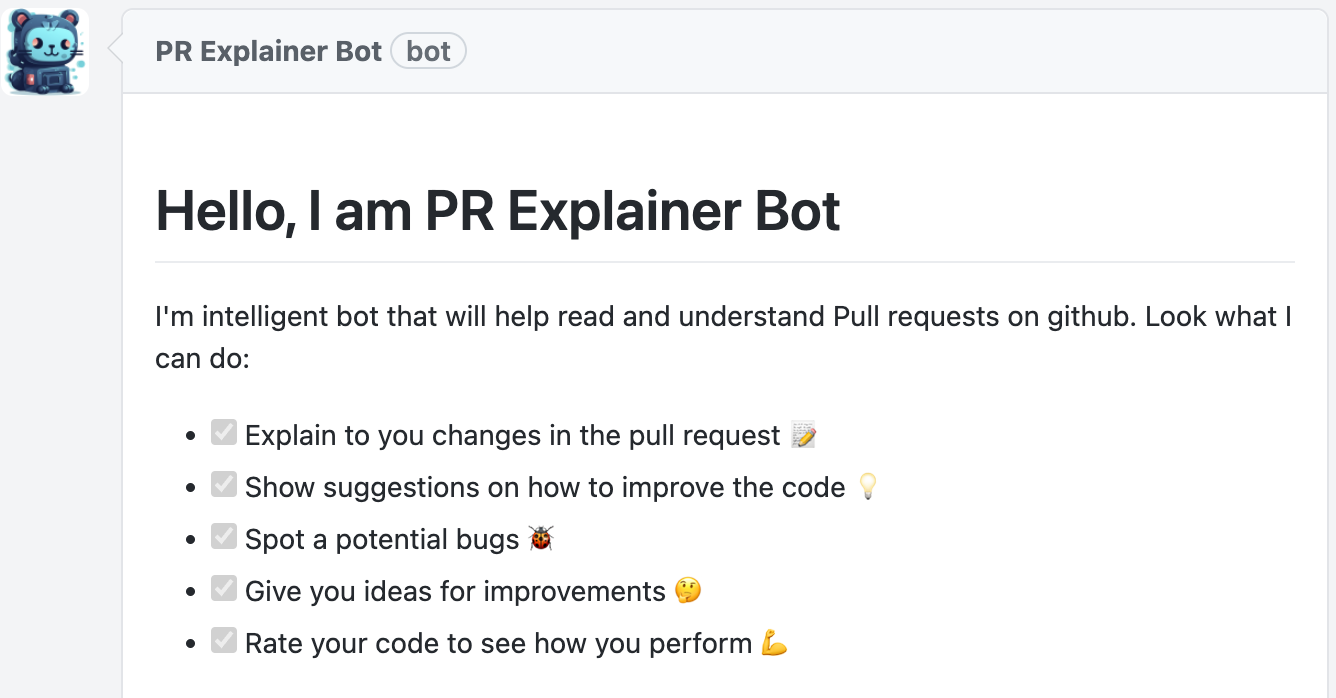
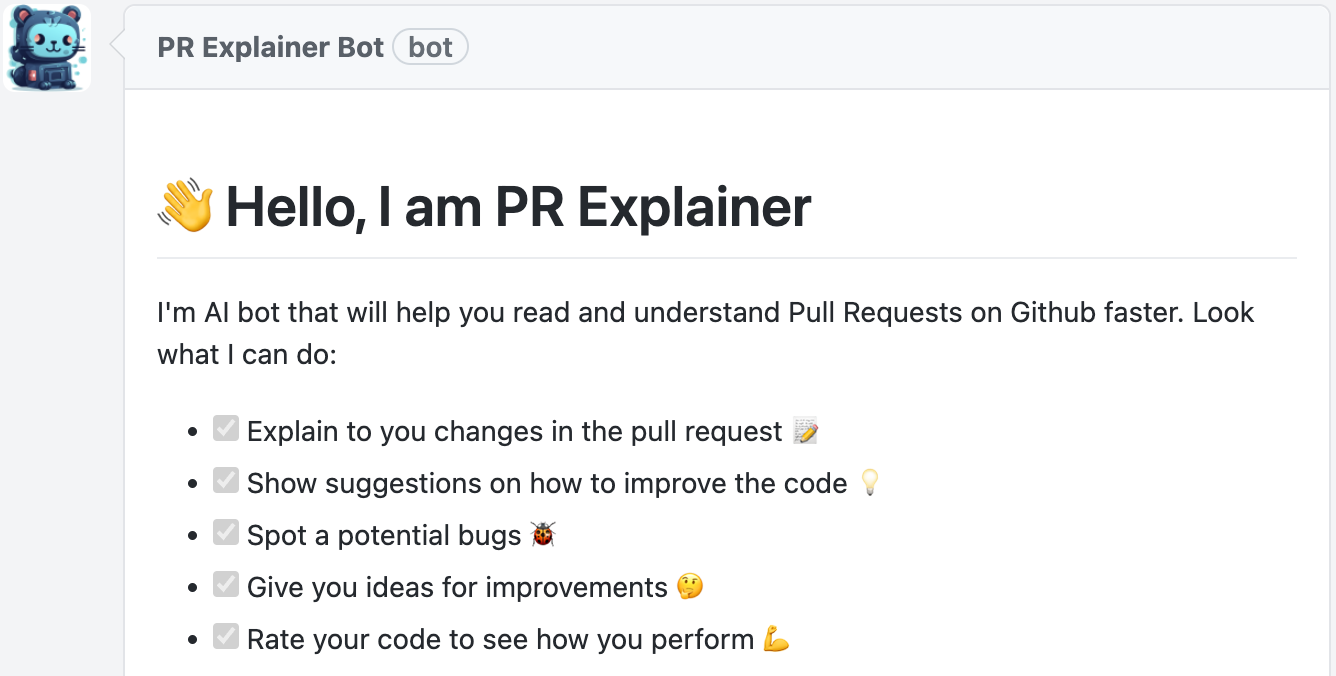
Changed some texts, added live example

diff --git a/public/index.html b/public/index.html
@@ -132,7 +132,41 @@
                 document.getElementById('readme').innerHTML = marked.parse(text);
               })
             </script>
+          </article>
+        </div>
+      </article>
 
+      <article class="timeline-comment">
+        <a class="avatar" href="https://github.com/apps/pr-explainer-bot" tabindex="-1">
+          <img alt="@pr-explainer-bot" height="44" width="44"
+            src="https://avatars.githubusercontent.com/in/323714?s=80&v=4" />
+        </a>
+        <div class="comment">
+          <header class="comment-header">
+            <span class="comment-meta">
+              <a class="text-link" href="https://github.com/utterance">
+                <strong>PR Explainer Bot</strong>
+              </a>
+              <span
+                class="text-sm font-semibold px-[7px] border border-[#d0d7de] rounded-full text-[#656d76]">bot</span>
+            </span>
+          </header>
+          <article class="markdown-body" md>
+            <div id="screenshots">
+              <div role="status" class="space-y-2.5 animate-pulse max-w-lg">
+                <div class="flex items-center w-full space-x-2">
+                  <div class="h-2.5 bg-gray-200 rounded-full dark:bg-gray-700 w-32"></div>
+                  <div class="h-2.5 bg-gray-300 rounded-full dark:bg-gray-600 w-24"></div>
+                  <div class="h-2.5 bg-gray-300 rounded-full dark:bg-gray-600 w-full"></div>
+                </div>
+                <span class="sr-only">Loading...</span>
+              </div>
+            </div>
+            <script>
+              fetch('./Screenshots.md').then(res => res.text()).then(text => {
+              document.getElementById('screenshots').innerHTML = marked.parse(text);
+              })
+            </script>
           </article>
         </div>
       </article>

diff --git a/public/Instructions.md b/public/Instructions.md
@@ -1,5 +1,5 @@
-# Hello, I am PR Explainer Bot 
-I'm intelligent bot that will help read and understand Pull requests on github.
+# 👋 Hello, I am PR Explainer 
+I'm AI bot that will help you read and understand Pull Requests on Github faster. 
 Look what I can do:
 - [x] Explain to you changes in the pull request 📝
 - [x] Show suggestions on how to improve the code 💡
@@ -7,25 +7,19 @@ Look what I can do:
 - [x] Give you ideas for improvements 🤔
 - [x] Rate your code to see how you perform 💪
 
-## How to use me?
-1. Add me to your repository as a collaborator
-2. Create a pull request
-3. Wait for me to comment on your pull request
-4. Read my comments and improve your code
+## How to use?
+1. Add Github App to your personal account or organization
+2. Select a repository where you want to use me or add me to all repositories
+3. Create a pull request
+4. Wait for me to comment on your pull request
+5. Read my comments and improve your code
+
+## Live Examples
+
+— [github.com/PR-explainer-bot/web-site/pull/3](https://github.com/PR-explainer-bot/web-site/pull/3#issuecomment-1546742315)
 
 ## How to install me?
 
 You can install me from Github App directory
 
 * [https://github.com/apps/pr-explainer-bot](https://github.com/apps/pr-explainer-bot)
-
-## Screenshots
-
-![example](/images/example4.png)
-<p style="text-align: center;">Glance on a summary — build mental model faster 🧠</p>
-
-![example](/images/example5.png)
-<p style="text-align: center;">Get smart suggestions — save time on code review 🕑</p>
-
-![example](/images/example6.png)
-<p style="text-align: center;">See how well you perform 💪</p>

diff --git a/public/Screenshots.md b/public/Screenshots.md
@@ -1,0 +1,10 @@
+## Screenshots
+
+<img src="images/example4.png" alt="example" style="max-width: 400px; margin: auto;"/>
+<p style="text-align: center;">Glance on a summary — build mental model faster 🧠</p>
+
+<img src="images/example5.png" alt="example" style="max-width: 400px; margin: auto;"/>
+<p style="text-align: center;">Get smart suggestions — save time on code review 🕑</p>
+
+<img src="images/example6.png" alt="example" style="max-width: 400px; margin: auto;"/>
+<p style="text-align: center;">See how well you perform 💪</p>

diff --git a/public/FAQ.md b/public/FAQ.md
@@ -1,4 +1,4 @@
-# FAQ:
+## FAQ:
 
 <details>
   <summary>
